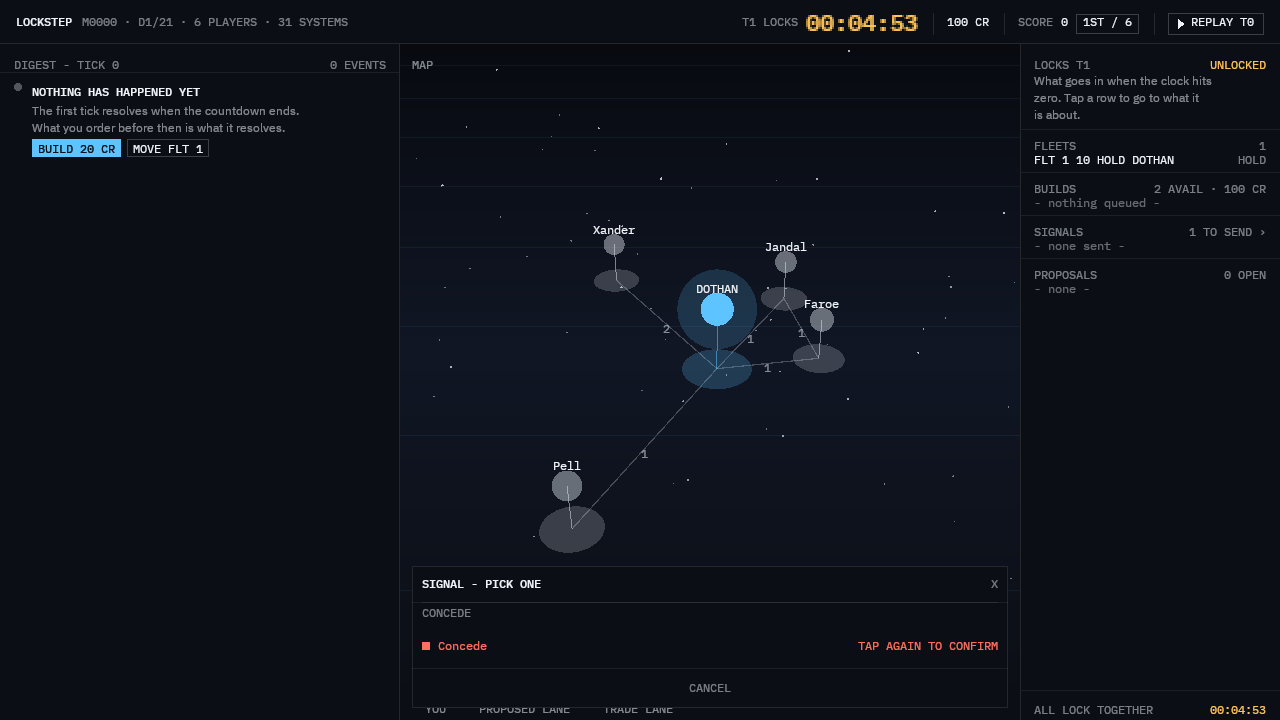
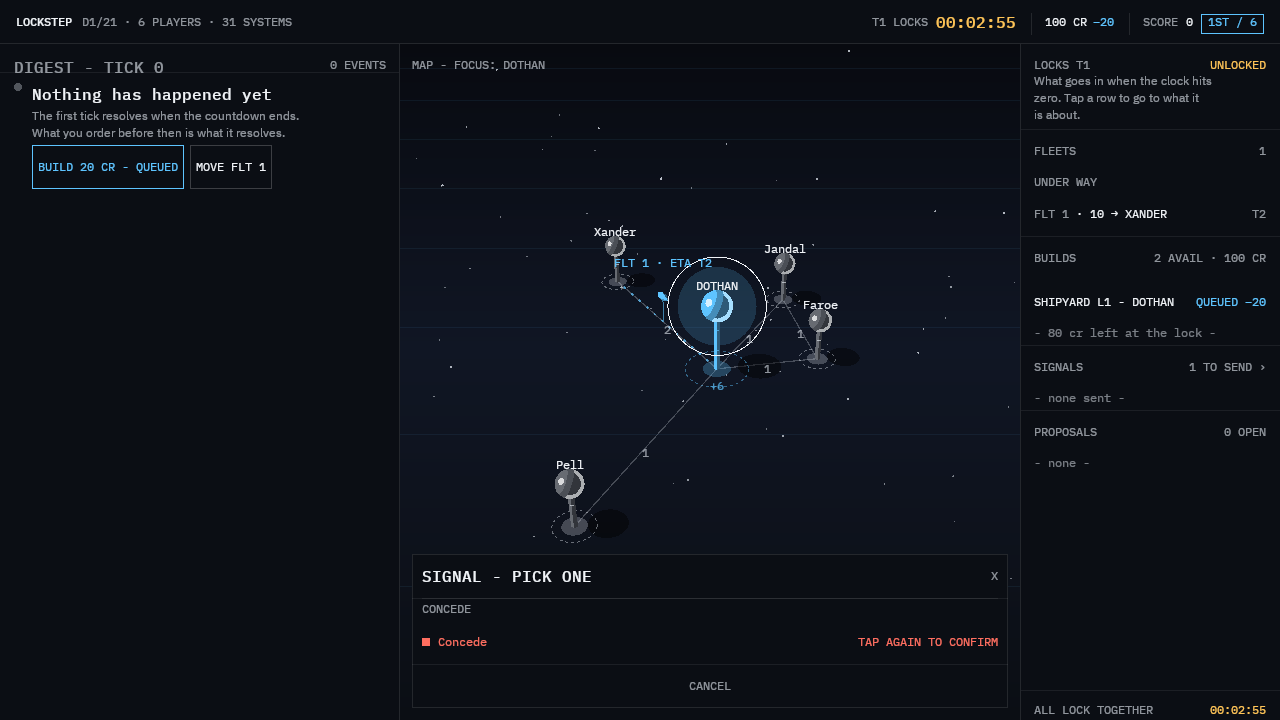
Retake the eleven captures a finger was needed for
Every capture that needed a TAP was stale, and not only for the build sheet.
ADR-103 through ADR-106 rebuilt how the map draws a system over four commits and
each of them retook the same five -- the ones a posted VK_RETURN can reach. The
other eleven need a tap to open a sheet, arm a concede or hover a row; a tap
needs SendInput, and SendInput needs an unlocked desktop, which none of those
sessions had. So eleven pictures went on showing flat discs, shouted card titles
(ADR-099) and 21px rail rows (ADR-100, ADR-101), and after ADR-107 two of them
showed a build sheet that had stopped existing.

All eleven are retaken from the Debug build at ADR-107. `06-at-lock-sheet.png`
is now the BUILD sheet across the lock rather than the signal sheet: the tile's
inert form is the part of ADR-065 that ADR-107 changed and no other capture
carries it.

TWO FINDINGS THE PICTURES PRODUCED, both recorded rather than fixed.

**Every wrap in this client measures in mono and draws in sans.**
`WrapToWidth` takes a face and not one of its nine call sites passes it, so each
wraps at MonoRegular's flat 7px column: the build sheet's purse sentence is
435px in the face it is drawn in and still breaks, because 84 mono columns is
588 against a 576 box. It is conservative -- nothing overruns, lines just break
early -- and fixing it would re-wrap the digest, the dialog, the join screen and
the lobby, which moves LayoutCard and every capture with a card on it. It wants
[…]

diff --git a/Design/UI/README.md b/Design/UI/README.md
@@ -4,30 +4,34 @@ What the client shows, screen by screen, and how far each screen is built. The d
 2026-09-11 as a UI handoff — eight mockups at 1280×720, guidelines, a per-screen spec and a work
 plan ("v2", superseding the v1 `Design/Screens/`). Most of it has since been built, some of it
 deliberately not, and this directory is now the **design record for the client**, kept against the
-code in `LockstepClient/` and `Lockstep/`. Every status below is as of **2026-09-13** and was read
+code in `LockstepClient/` and `Lockstep/`. Every status below is as of **2026-09-14** and was read
 from the tree, not from the plan.
 
-> **Twenty-one of the twenty-three captures are current as of 2026-09-13**, retaken from the Debug
-> build carrying every stage of FONT-01: IBM Plex in four cuts, the data/sentence rule applied, the
-> layout re-derived around a 17px line, coverage gamma-corrected, and the five characters ADR-014
-> had to substitute put back.
+> **All twenty-three captures are current as of 2026-09-14.** Twelve were taken on 2026-09-13 or
+> earlier and nothing since has reached them; **eleven were retaken on 2026-09-14** and the reason
+> they all went at once is worth reading, because it is the shape of a backlog rather than one
+> change.
 >
-> **`01-build-sheet.png` and `01-build-rising.png` are STALE as of 2026-09-14** and are kept only so
-> the list is not shorter than the screens. They show the build sheet as a column of 44px rows;
-> ADR-107 made its body a 2×2 grid of 96px tiles, so neither picture is of anything the client draws
-> any more. **They could not be retaken in the session that made the change**: opening a sheet needs
-> a tap, a tap needs `SendInput`, and `SendInput` needs an unlocked desktop — `Get-Process LogonUI`
-> answered yes throughout. The change was run against the real client as far as a locked desktop
-> reaches, which is the board itself (a `--serve --bots 5` process and a `--join --token alpha`
-> client on one posted Enter, per "Photographing the build" below): the rail's `BUILDS n AVAIL · n
-> CR` and the digest's priced build button both draw, and both are paths ADR-107 touched. **The
-> recipe for the two retakes is below under `01-build-rising.png`** and needs somebody at an
-> unlocked session.
+> **A capture that needs a FINGER is a capture that stops being retaken.** ADR-103 through ADR-106
+> rebuilt how the map draws a system — a lit ball on a stem with a cast shadow, four tones, a rim
+> and a glint — over four commits, and each of them retook the same five: `01-main-page`,
+> `04-connection-lost`, `06-at-lock`, `08-missed-digests`, `05-match-finished`. Those five are the
+> ones a posted `VK_RETURN` can reach. The other eleven need a tap to open a sheet, arm a concede or
+> hover a row, a tap needs `SendInput`, and `SendInput` needs an unlocked desktop, which those
+> sessions did not have. So eleven pictures went on showing flat discs, shouted card titles
+> (ADR-099), 21px rail rows (ADR-100, ADR-101) and, after ADR-107, a build sheet that had stopped
+> existing.
 >
-> The other three sheets moved by **4 pixels** and their captures are not being called stale for it:
-> the help slot's padding went from 12 to 16 (ADR-107), which lowers `01-destination-sheet.png`,
-> `01-signal-sheet.png`, `01-signal-sheet-armed.png`, `06-at-lock-sheet.png` and `07-replay.png` by
-> two pixels each at the top and bottom and changes nothing else on them.
+> Retaken 2026-09-14 from the Debug build at ADR-107, on an unlocked session: `01-build-sheet`,
+> `01-build-rising`, `01-destination-sheet`, `01-signal-sheet`, `01-signal-sheet-armed`,
+> `01-orders-queued`, `01-fleet-under-way`, `01-rail-hover`, `01-finished`, `06-at-lock-sheet` and
+> `07-replay`. **`06-at-lock-sheet.png` is now the BUILD sheet across the lock** rather than the
+> signal sheet, because the tile's inert form is the part of ADR-065 that ADR-107 changed and no
+> other capture carries it.
+>
+> **The lesson is a process one and it belongs here:** check `Get-Process LogonUI` at the START of a
+> change that touches drawing, not at the end. A locked desktop does not stop the work, it silently
+> halves what can be photographed — and the half it takes is the half with the controls in it.
 >
 > **The check is mechanical rather than visual.** The 8×8 font was one bit a pixel, so a capture
 > carrying it has a handful of distinct luminances in it; an anti-aliased one has two hundred. Run
@@ -51,13 +55,13 @@ ADR-034 (what the handoff left open) and ADR-036 through ADR-071, which are cite
 
 | # | Screen | Status | In `screens/` | Code |
 |---|---|---|---|---|
-| 01 | Main page — digest as order surface, map, locks rail | **Built** (ADR-034; then 045, 052, 053, 055–066) | `01-main-page.png` (tick 11 of a six-seat match: a battle, two grouped rivals, production with its priced build, a rising build, a claim — and a paged rail), `01-orders-queued.png` (tick 0: a move ordered and a build queued, before the lock), `01-fleet-under-way.png` (tick 1: the route and its marker), `01-rail-hover.png` (the locks rail with the pointer on a row, ADR-060), the sheets `01-build-sheet.png`, `01-destination-sheet.png`, `01-signal-sheet.png` and `01-signal-sheet-armed.png` (the concede armed under its band, ADR-064), `01-build-rising.png` (a build in flight, one frame carrying all three places it is said: the rail's row, the sheet that will not take another order, and the digest's card, ADR-070), and `01-finished.png`. The map's unbuilt details are item 6 below | `LockstepClient/MainPage.cpp`, `DigestView.cpp`, `MapRender.cpp` |
+| 01 | Main page — digest as order surface, map, locks rail | **Built** (ADR-034; then 045, 052, 053, 055–066) | `01-main-page.png` (tick 11 of a six-seat match: a battle, two grouped rivals, production with its priced build, a rising build, a claim — and a paged rail), `01-orders-queued.png` (tick 0: a move ordered and a build queued, before the lock), `01-fleet-under-way.png` (tick 1: the route and its marker), `01-rail-hover.png` (the locks rail with the pointer on a row, ADR-060), the sheets `01-build-sheet.png` (the tile grid, one tile queued, the purse and its sentence — ADR-107), `01-destination-sheet.png`, `01-signal-sheet.png` and `01-signal-sheet-armed.png` (the concede armed under its band, ADR-064), `01-build-rising.png` (a build in flight, one frame carrying all three places it is said: the rail's row, the tile that is rising with its progress bar beside the one it blocks, and the digest's card — ADR-070, ADR-107), and `01-finished.png`. The map's unbuilt details are item 6 below | `LockstepClient/MainPage.cpp`, `DigestView.cpp`, `MapRender.cpp` |
 | 02 | Share tick — 480×640 export | **Not built.** No button, no export; ADR-034 §2 says clipboard-only if it is ever built, and its open question asks whether it should be | none; the mockup that was the target, if it stays one, is in the design file and the history | — |
 | 03 | Join | **Built** (ADR-034 §3, ADR-041) | `03-join.png` | `LockstepClient/JoinPage.cpp`, `NeuronClient/TextField.h` |
 | 04 | Connection lost | **Built** (ADR-038, ADR-043) | `04-connection-lost.png` | `LockstepClient/ConnectionDialog.cpp` |
 | 05 | Connection states | **Built** as one component with seven states. The WELCOME dialog is not one of them | `05-connecting.png`, `05-refused-unknown-token.png`, `05-refused-seat-in-use.png`, `05-waiting-for-the-host.png`, `05-match-finished.png` | `LockstepClient/ConnectionDialog.cpp` |
-| 06 | At lock | **Built** (ADR-039, ADR-065) | `06-at-lock.png`, `06-at-lock-sheet.png` (a sheet left open across the lock: dim rows, the `LOCKED` chip in its header, the rail's sentence in amber) | `LockstepClient/MainPage.cpp` |
-| 07 | Replay — phase step-through | **Stub**, and its title says so (`REPLAY TICK 7 - NOT YET WIRED`). A sheet listing the six phases; nothing steps | `07-replay.png` is the stub as built; the step-through the mockup drew is item 2 below, its centred panel superseded by the sheet (ADR-052) | `MainPage::DrawPanel` |
+| 06 | At lock | **Built** (ADR-039, ADR-065) | `06-at-lock.png`, `06-at-lock-sheet.png` (the BUILD sheet left open across the lock: every tile keeping its border and its icon with all four of its strings gone `NEUTRAL_DIM`, the filled grey `LOCKED` chip in the header, the rail's sentence in amber — ADR-065, ADR-107) | `LockstepClient/MainPage.cpp` |
+| 07 | Replay — phase step-through | **Stub.** A sheet titled `REPLAY TICK <n>` listing the six phases; nothing steps. Its title said `- NOT YET WIRED` until ADR-091 made `--dev` the disclosure instead, and this line said so until 2026-09-14 | `07-replay.png` is the stub as built; the step-through the mockup drew is item 2 below, its centred panel superseded by the sheet (ADR-052) | `MainPage::DrawPanel` |
 | 08 | Missed digests | **Partial.** The backlog is kept and concatenated (ADR-044) and its repeats are folded (ADR-062); no tabs | `08-missed-digests.png` (`SINCE YOU LOOKED - T1 > T7`, the delta box, two actor cards and a folded `PRODUCTION +18 - T1 > T7`); the tabs the mockup drew are item 3 below | `Lockstep/Lockstep.cpp` (match loop), `DigestView.cpp` |
 | 09 | Seats — the host's lobby | **Built**, and not in the handoff (ADR-036, 037, 041, 051, 066) | `09-seats.png` (the host alone), `09-seats-joined.png` (a second seat connected and selected, and the three-way on every card) | `Lockstep/SeatsPage.cpp` |
 
@@ -96,7 +100,7 @@ match loop draws the main page and the dialog over it, and redraws only when som
 The complete list, so nobody goes looking. Each item is also under its screen in `SCREENS.md`.
 
 1. **Screen 02, entirely.** No `SHARE TICK` button on the top bar, no card, no clipboard.
-2. **Screen 07's step-through.** `REPLAY T<n> - NOT YET WIRED` opens a sheet naming six phases and
+2. **Screen 07's step-through.** `▶ REPLAY T<n>`, under `--dev` only, opens a sheet naming six phases and
    nothing else: no per-phase entries, no PREV/NEXT, no board snapshot per phase. The snapshot
    carries no `PhaseRecord`s, so this needs the wire before it needs a screen.
 3. **Screen 08's tabs**, per-tick event counts, the collapsed older ticks and read marks. What
@@ -147,9 +151,10 @@ it was corrected on 2026-09-12. (Rail rows became links later the same day — A
 claim is true again, of a different mechanism: a row links to the thing it names, not to an event.)
 
 **Every capture was retaken on 2026-09-13 for FONT-01**, from the Debug build carrying all seven
-stages. All twenty-three are different, because the face changed on every screen — which is also why
-the by-eye check that served the ADR-069 and ADR-070 retakes does not serve this one, and the
-luminance-count check above replaced it.
+stages. All twenty-three were different, because the face changed on every screen — which is also
+why the by-eye check that served the ADR-069 and ADR-070 retakes did not serve that one, and the
+luminance-count check above replaced it. **Eleven of them have since been retaken again**, on
+2026-09-14; the block at the top of this file says which and why they had fallen behind.
 
 `01-main-page.png` is **no longer a practice match**. The recipe asked for one and a practice match
 at these seeds now yields a digest of one or two events, which documents the screen's typography
@@ -185,8 +190,9 @@ ADR-066 touched was retaken the same day from the Debug build carrying them. Don
   screen 03 and ENTER MATCH on 09. `Get-Process LogonUI` says whether the desktop is locked; if it
   is, the window will report itself foreground and no tap will happen.
 - Client-pixel targets, **re-measured 2026-09-13 after FONT-01 stage 6 moved two of them**: JOIN
-  (826, 479); **PRACTICE MATCH (752, 502)**, which was (744, 482) until a seat card grew from 120px
-  to 130 and pushed the box below it down; `REPLAY T<n>` (1210, 24); a sheet's `CANCEL` bar
+  (826, 479); **PRACTICE MATCH (752, 554)**, which was (744, 482) and then (752, 502) as the seat
+  cards grew — re-measured 2026-09-14, and the lesson is that this number has moved three times and
+  should be read off a screenshot rather than typed; `REPLAY T<n>` (1210, 24); a sheet's `CANCEL` bar
   (700, 688); the `SIGNALS` header on a fresh rail (1150, 232), which was 201.
 - **Do not hardcode a rail position at all — scan for the section dividers.** Each section of the
   locks rail opens with a full-width 1px divider at 7% white, so the third of them down the rail is
@@ -208,15 +214,23 @@ ADR-066 touched was retaken the same day from the Debug build carrying them. Don
   the ink, which lands on `30,33,38` against a background of `11,14,20` — plain in place and easy to
   miss in a thumbnail, so a capture script should assert the pixel. Measured that way on 2026-09-12,
   and it is what found that a moving mouse produces no `WM_POINTERUPDATE` at all.
-- `01-build-rising.png` is a practice match one tick after queuing a level: PRACTICE MATCH, tap a
-  held system, queue the top tile, let one lock pass. The rail then carries the rising row and the
-  same system's sheet draws that build rising with its progress bar, with the tiles beside it inert
-  and marked `AFTER T<n>` (ADR-107, amending ADR-070). Tap the system again before photographing it,
-  so the sheet, the rail row and the digest's card are all in the one frame. `01-build-sheet.png` is
-  the same match before the lock: PRACTICE MATCH, tap a held system, and photograph the four-state
-  grid with one tile queued, so `QUEUED −20` / `TAP TO TAKE BACK` and the purse's ` −20` in the
-  header are both in the frame. **Both need an unlocked desktop**, which is the whole of why they
-  were not retaken with the change that made them stale.
+- `01-build-sheet.png` is a practice match at tick 0: PRACTICE MATCH, tap the capital, tap one
+  tile. That puts `QUEUED −20` / `TAP TO TAKE BACK` on one tile, `15 CR` / `85 CR LEFT AFTER` on
+  the other, the purse's ` −20` in the header and the ADR-078 sentence under it — four of the seven
+  tile states in one frame.
+- **`01-build-rising.png` needs a LEVEL TWO build, and that is the trap.** A level-one building
+  takes one tick (ADR-069), so it is ordered at one lock and done at the next and is never on the
+  screen rising; only L2 and L3 take two and three. The recipe is: `--tick 20`, queue the shipyard
+  at tick 0, let it land, queue `SHIPYARD L2` from the digest's filled button, let one more lock
+  pass, then tap the system. The sheet then draws `Shipyard L2 rising` with `1 OF 2 TICKS`, its
+  progress bar at half, the `RISING · DONE T9` chip in the header and the mining tile beside it dim
+  and marked `AFTER T9` — with the rail's row and the digest's card in the same frame (ADR-070,
+  ADR-107).
+- **Drive it by looking, not by predicting.** The digest re-lays out every tick, so a coordinate
+  read from one screenshot is stale by the next: at `--tick 20` a screenshot-then-tap round trip is
+  most of a tick. `Build/TapRehearsal.ps1` exists for exactly this — it grabs, scans column x=40 for
+  the filled blue button and taps, all in one process between two frames. Anything that has to be
+  aimed by eye wants a tick of 45 seconds or more.
 - States: 09 = JOIN as the host; 01 = PRACTICE MATCH (`--tick 4` overrides the preset's two
   minutes); the sheets = a held system on the map, `MOVE`/`REDIRECT`, the `SIGNALS` header, `REPLAY`;
   06 = a `--serve` process suspended past a lock (`NtSuspendProcess`); 04 = that process killed;

diff --git a/Design/UI/SCREENS.md b/Design/UI/SCREENS.md
@@ -150,9 +150,8 @@ drawn from `BuildRow::isTradeLane`, which nothing sets.
 line, a body, a 44px `CANCEL` bar. The body is 44px rows, six at most and a seventh reported —
 **except the build sheet's, which is a 2×2 grid of 96px tiles** (ADR-107). No mockup exists for any of them; the captures are `01-build-sheet.png`,
 `01-destination-sheet.png`, `01-signal-sheet.png`, `01-signal-sheet-armed.png`, `07-replay.png`
-and, for a sheet left open across the lock, `06-at-lock-sheet.png`. **The two build captures are
-stale** — they are of the row form ADR-107 replaced, and `Design/UI/README.md` says why they were
-not retaken with it.
+and, for a sheet left open across the lock, `06-at-lock-sheet.png`. All six were retaken on
+2026-09-14; `Design/UI/README.md` says why eleven captures had fallen behind at once.
 - **Build** (`BUILD - DOTHAN`): **the one sheet whose body is a grid rather than a column**
   (ADR-107). Opened by tapping a system you hold, or by a queued BUILDS row on the rail; it is about
   that system and nothing else (ADR-058), and a system you do not hold opens no sheet and only
@@ -330,7 +329,7 @@ is no host-left state.
 **Code.** `LockstepClient/ConnectionDialog.{h,cpp}`. Tests: `ConnectionDialogTapTests` in
 `TapTests.cpp` — every button pressed, the scrim swallowing, no `BACK` without a screen behind.
 
-## 06 · At lock — **built** (`06-at-lock.png`)
+## 06 · At lock — **built** (`06-at-lock.png`, `06-at-lock-sheet.png`)
 
 Applies to 01 when the countdown reaches zero (ADR-039): top bar `T8 LOCKED 00:00:00` with the
 countdown in grey rather than amber; digest header right side `T8 PENDING` in amber; every action
@@ -339,7 +338,11 @@ grey `LOCKED` chip, its help line amber — *Resolving T8. Controls return with 
 Anything you tap now is an order for T9.* — its `SIGNALS` header `LOCKED` and not a control, its
 footer `LOCKED TOGETHER` / `T8 RESOLVING`; its rows focus-only (ADR-060). **An open sheet stays
 open** (ADR-065): every row dim and not a target, the same filled grey `LOCKED` chip in its header
-clear of the `X`, and the rail's lock sentence repeated under the header in amber. `X` and `CANCEL`
+clear of the `X`, and the rail's lock sentence repeated under the header in amber. **A build sheet
+dims its TILES in place** (ADR-107): each keeps the border and the icon of whatever state it is in
+and all four of its strings go `NEUTRAL_DIM`, and a queued tile drops its `TAP TO TAKE BACK` rather
+than dimming an instruction that is no longer true. `06-at-lock-sheet.png` is that sheet, which is
+what it shows since 2026-09-14; it was the signal sheet before. `X` and `CANCEL`
 still close it. Ends when the next state arrives and the page is rebuilt from it — including the
 sheet, which reopens when its system is still yours or its fleet still exists, and closes when it is
 not. When the server is on time this screen lasts under a second; it is what a player sees when the
@@ -350,7 +353,7 @@ server is late, which is when it matters.
 
 ## 07 · Replay — **stub** (`07-replay.png` is the stub as built)
 
-Built: `▶ REPLAY T7` on the top bar opens a sheet titled `REPLAY TICK 7 - NOT YET WIRED` listing
+Built: `▶ REPLAY T7` on the top bar, under `--dev` only (ADR-091), opens a sheet titled `REPLAY TICK 7` listing
 `1. LOCK` … `6. DIGEST` as dim, untappable rows, and `CANCEL`. That is all, and the title is where
 it says so: the seventh note row that used to carry that sentence was clipped by the six-row cap and
 read as `+1 MORE THAN THIS SHEET CAN SHOW`, so it was removed.

diff --git a/Design/UI/DESIGN-GUIDELINES.md b/Design/UI/DESIGN-GUIDELINES.md
@@ -46,8 +46,17 @@ ships — this document cites it and does not restate what it does not have to.
   half the map stays visible.
 - **The build sheet's body is a grid and not a column** (ADR-107): a 2×2 of **96px** tiles,
   `(596 − 20 − 8) / 2` = 284 wide, 8px between, 4px above the grid and 12px below, four slots and an
-  empty one not drawn. Header 44 + help 0 or 33 + grid + `CANCEL` 44 — **200px** for the two-tile
-  sheet the game produces today, **304** for a full four, 337 with a help line.
+  empty one not drawn.
+- **Sheet heights, measured off the captures on 2026-09-14** rather than computed: header 44 + help
+  (0, 33 or 50) + body + `CANCEL` 44. The two-tile build sheet the game produces today is **200**
+  bare, **233** under the rising sentence (`01-build-rising.png`) and **250** under the purse or lock
+  sentence (`01-build-sheet.png`, `06-at-lock-sheet.png`); the destination picker's four rows are
+  **264**, the signal sheet's band and row **154**, the replay sheet's six rows **352**. A full
+  four-tile grid will be 304 bare and **354** under a two-line sentence, which is the first thing on
+  this sheet that would pass ADR-052's "more than half the pane stays map" (338) — the row form
+  already passes it at six rows, and the grid does not until the bastion and the lane exist.
+  **ADR-107 predicted 337 for that case**, which was arithmetic done before the help line's wrap was
+  measured; see §Font.
 
 ## Font
 
@@ -139,6 +148,16 @@ the five characters ADR-014 substituted and re-measuring the six strings it shor
 - Detail text wraps by word to a PIXEL WIDTH (`FontRenderer::WrapToWidth`). It wrapped to a
   character count until 2026-09-13; there is no character count any more, because there is no one
   advance for a proportional face to have.
+- **Every wrap in this client measures in the MONO face and then draws in a sans one**, which is a
+  defect and is written down here rather than fixed (found 2026-09-14 while photographing the build
+  sheet). `WrapToWidth` takes a face and not one of the nine call sites passes it, so each wraps at
+  `MonoRegular`'s flat 7px column and the line is then set in Plex Sans at about 5.3px a character.
+  It is **conservative** — nothing overruns its box, lines just break earlier than they need to — so
+  the symptom is only ever a paragraph a line taller than it has to be: the build sheet's purse
+  sentence measures 435px in the face it is drawn in and breaks at 576 because 84 mono columns is
+  588. **Fixing it is not a one-word change**: it would re-wrap the digest's detail lines, the
+  dialog's paragraphs, the join screen and the lobby, which moves `LayoutCard`, the card stack's
+  paging and every capture that has a card on it. It wants its own change and its own ADR.
 - **"31 characters a line" is retired.** The digest rail is 254px and always was; what fits in it is
   the font's to answer, and at the 7px mono column that is **36**. Every such number in this
   directory is a fact about the face and moves when the face does.
